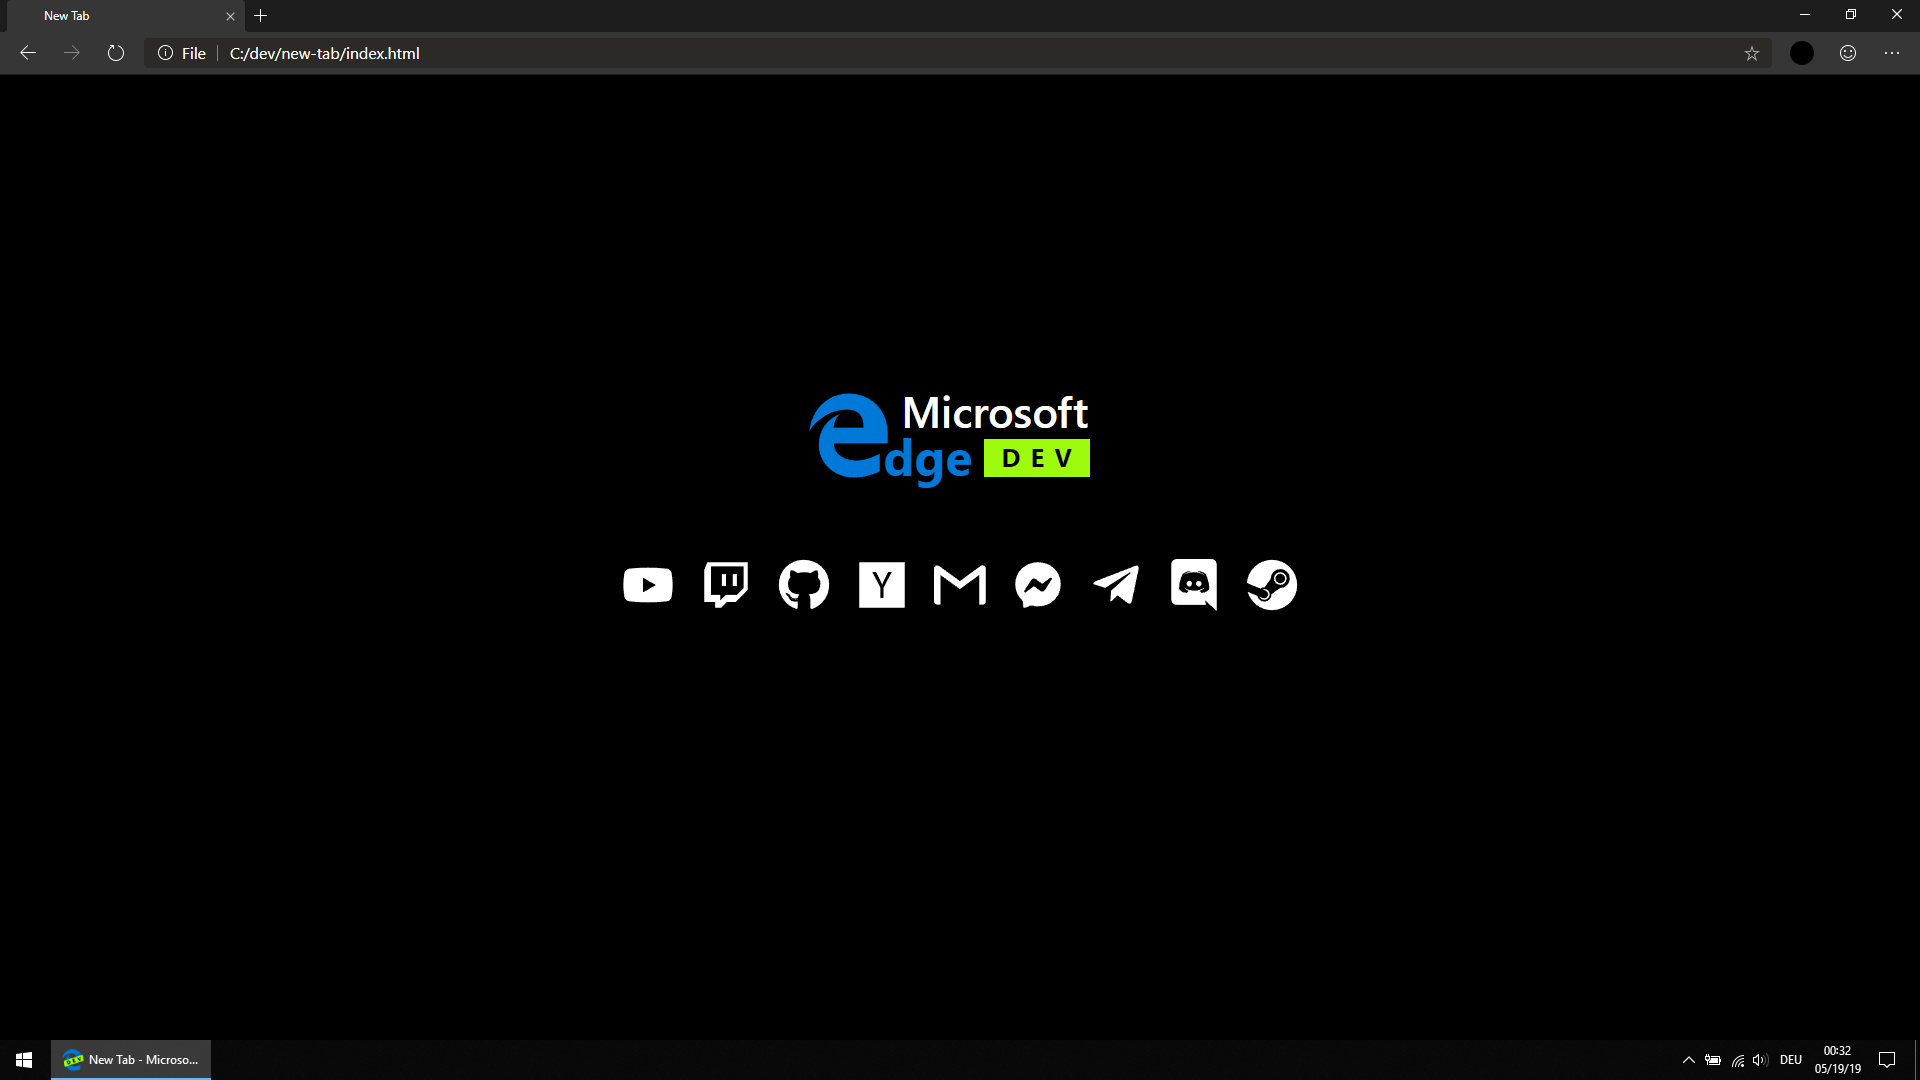
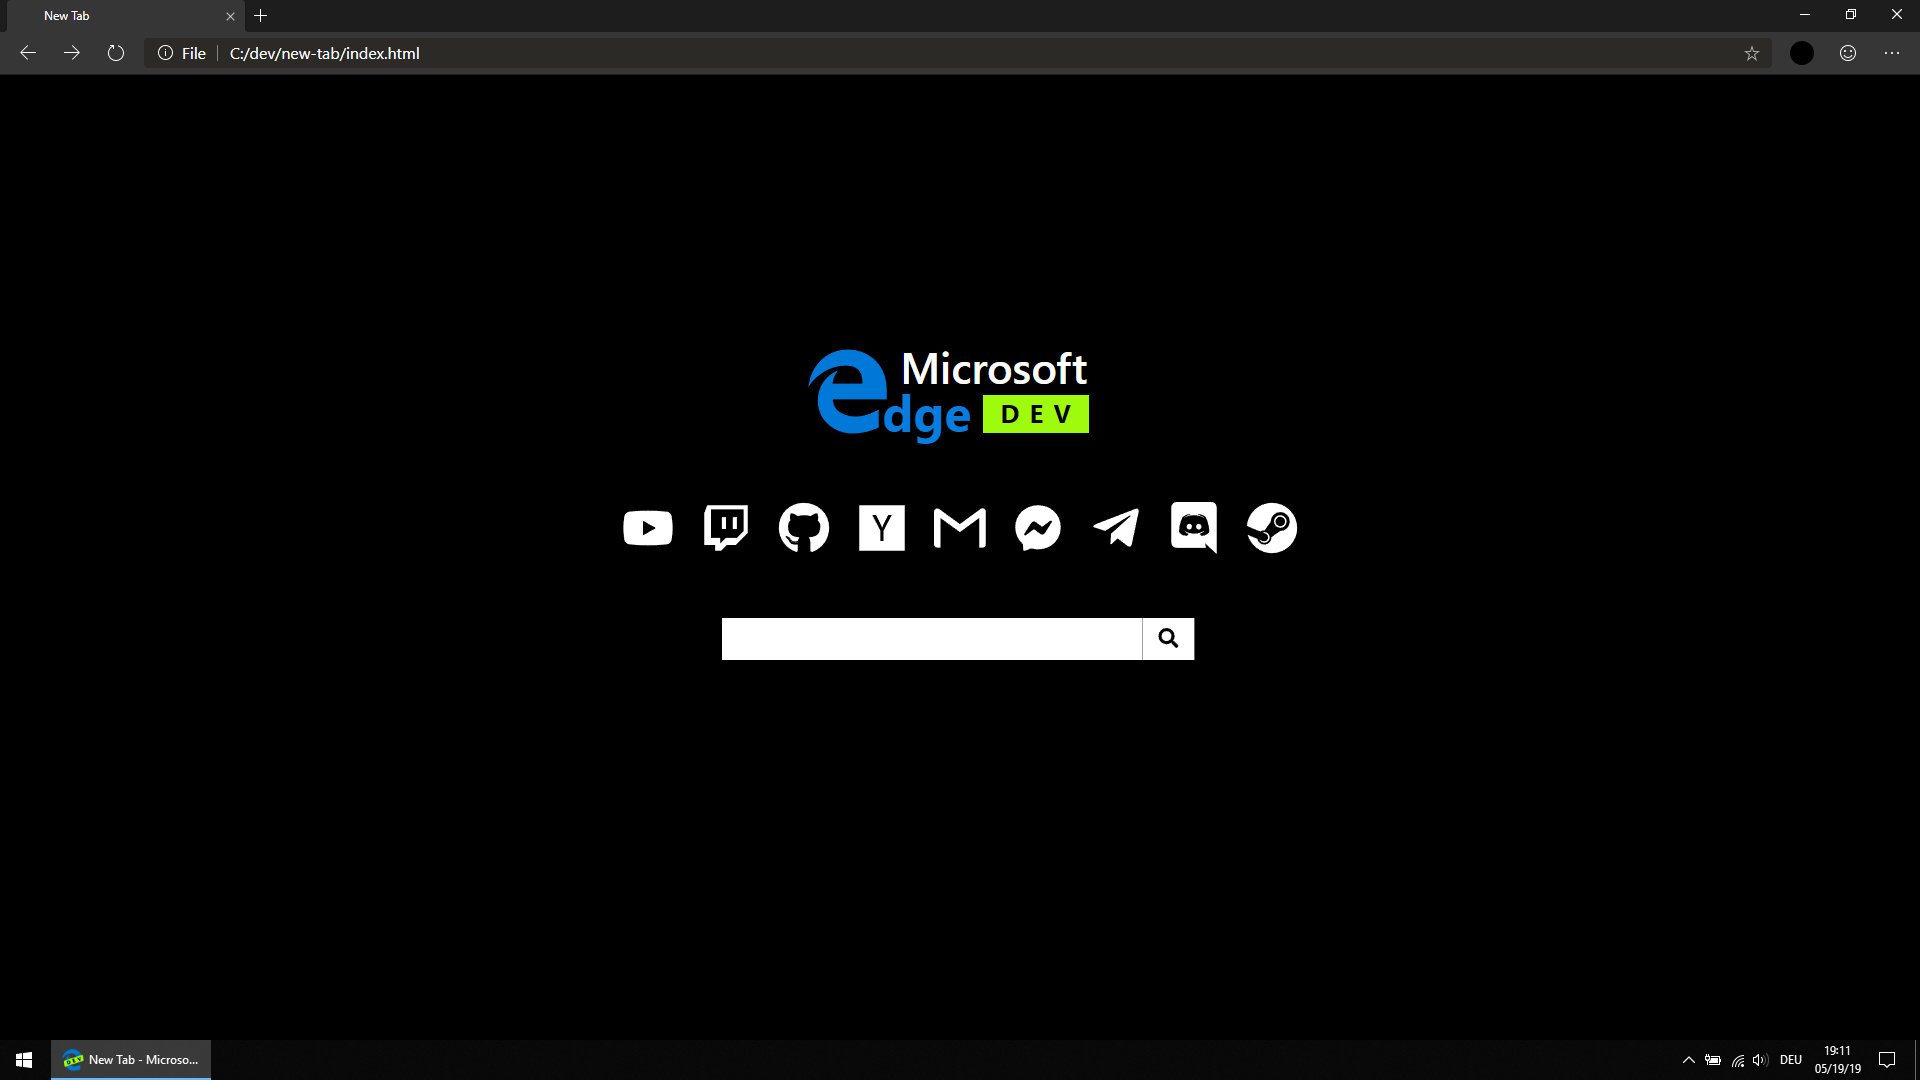
Add search bar

Changed region(s): [[0.3125, 0.3056, 0.6875, 0.6111]]

diff --git a/index.html b/index.html
@@ -2,6 +2,7 @@
 <html>
 
 <head>
+  <meta charset="utf-8" />
   <title>New Tab</title>
   <style>
     body {
@@ -22,7 +23,7 @@
 
     .browser {
       margin-top: -60px;
-      padding-right: 30px;
+      padding-right: 32px;
     }
 
     .microsoft {
@@ -63,7 +64,7 @@
     }
 
     .apps {
-      margin-top: 70px;
+      margin-top: 57px;
       display: inline-grid;
       grid-template-columns: repeat(9, 1fr);
       grid-gap: 26px;
@@ -90,6 +91,43 @@
     #telegram:hover path { fill: #34ABE0; }
     #discord:hover path { fill: #7289DA; }
     #steam:hover path { fill: #0B7CAE; }
+
+    .search {
+      margin-top: 60px;
+    }
+
+    .search input {
+      font-family: "Segoe UI", Tahoma;
+      font-size: 22px;
+      font-weight: 600;
+      width: 400px;
+      padding: 6px 10px 6px 10px;
+      border-width: 0px;
+    }
+
+    .search input:hover {
+      outline: -webkit-focus-ring-color auto 1px;
+    }
+
+    .search button {
+      height: 42px;
+      width: 52px;
+      padding: 0;
+      transform: translate(-3.6px, 0);
+      border: none;
+      cursor: pointer;
+      background: white;
+    }
+
+    .search button:hover {
+      outline: -webkit-focus-ring-color auto 1px;
+    }
+
+    #loupe {
+      height: 20px;
+      width: 20px;
+    }
+
   </style>
 </head>
 
@@ -178,6 +216,18 @@
     </a>
 
   </div>
+
+  <div class="search">
+    <form method="GET" action="https://duckduckgo.com/">
+      <input name="q" required autocomplete="off" autocapitalize="off" spellcheck="false" autofocus />
+      <button type="submit">
+        <svg id="loupe" viewBox="0 0 512 512">
+          <path d="M505 442.7L405.3 343c-4.5-4.5-10.6-7-17-7H372c27.6-35.3 44-79.7 44-128C416 93.1 322.9 0 208 0S0 93.1 0 208s93.1 208 208 208c48.3 0 92.7-16.4 128-44v16.3c0 6.4 2.5 12.5 7 17l99.7 99.7c9.4 9.4 24.6 9.4 33.9 0l28.3-28.3c9.4-9.4 9.4-24.6.1-34zM208 336c-70.7 0-128-57.2-128-128 0-70.7 57.2-128 128-128 70.7 0 128 57.2 128 128 0 70.7-57.2 128-128 128z" />
+        </svg>
+      </button>
+    <form>
+  </div>
+
 </body>
 
 </html>
